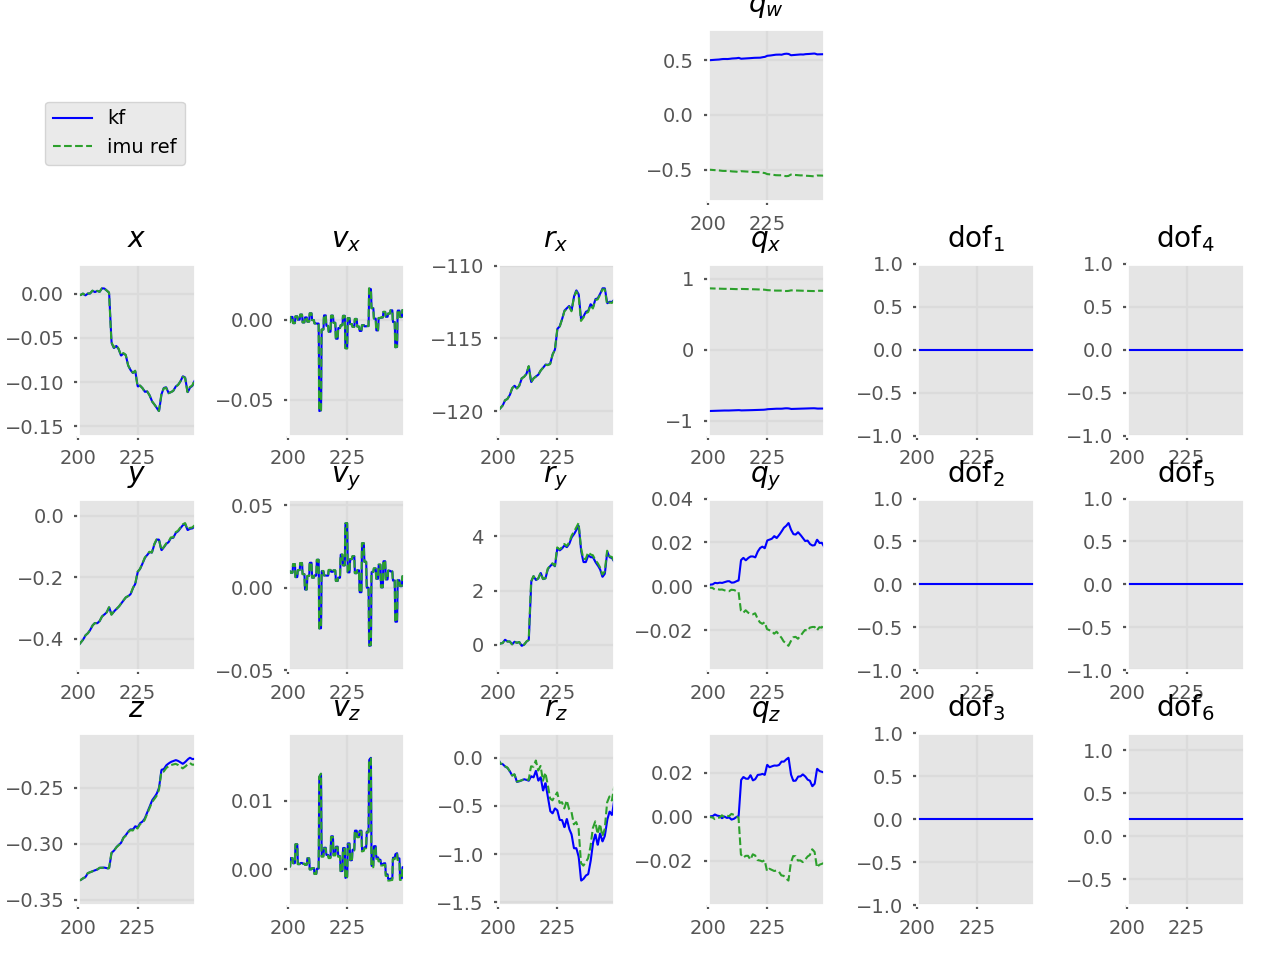
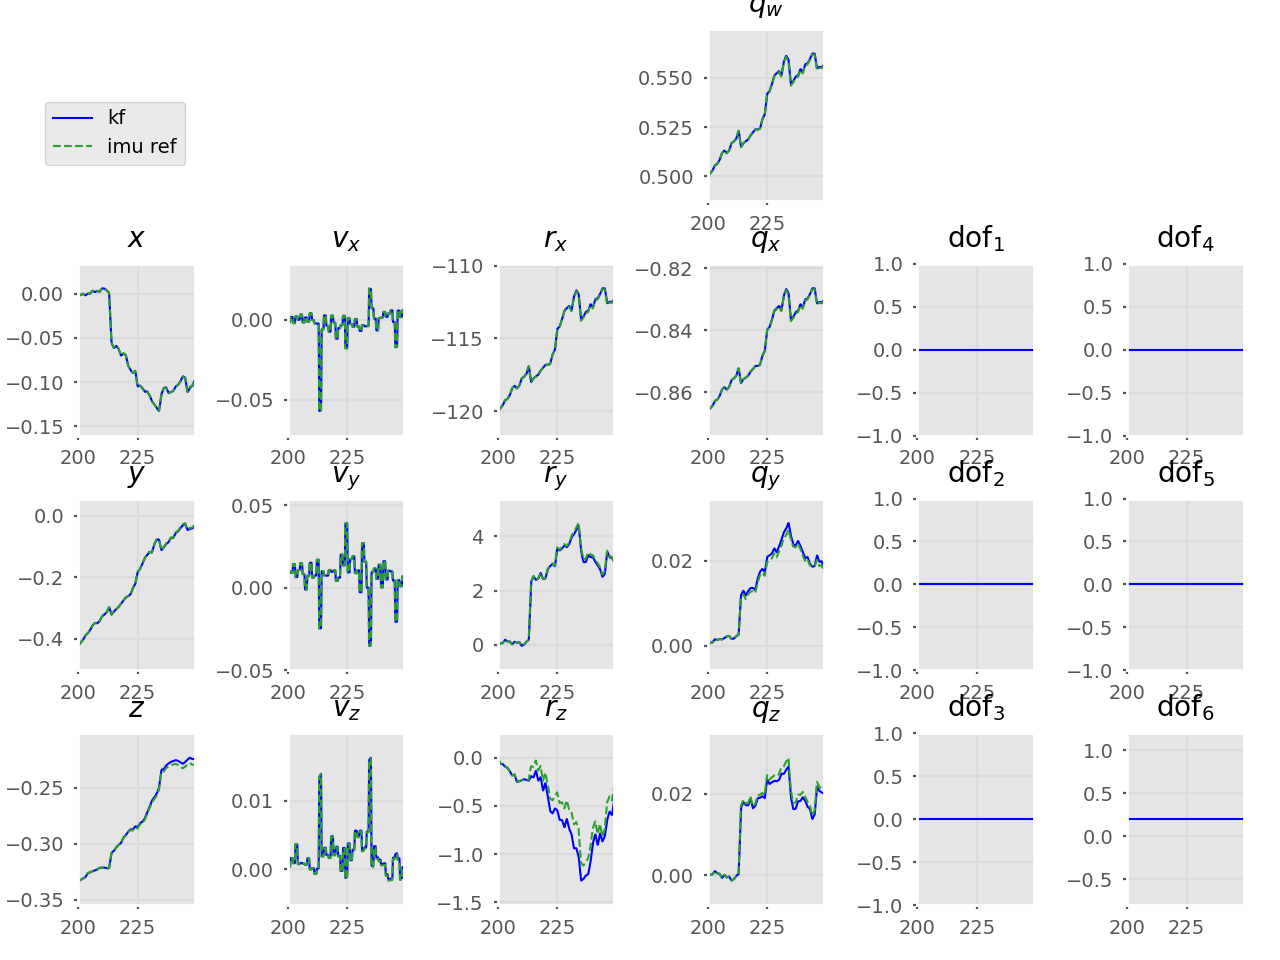
normalised quats in imu ref traj

diff --git a/Filter/Trajectory.py b/Filter/Trajectory.py
@@ -503,7 +503,7 @@ class ImuDesTraj(Trajectory):
         p, R_WB, v = self.imu.desired_vals(current_cam)
 
         euler_angs = R.from_matrix(R_WB).as_euler('xyz', degrees=True)
-        quats = Quaternion(val=R_WB)
+        quats = Quaternion(val=R_WB, do_normalise=True)
         data = [t, *p, *v, *euler_angs, *quats.wxyz]
 
         for i, label in enumerate(self.labels):
